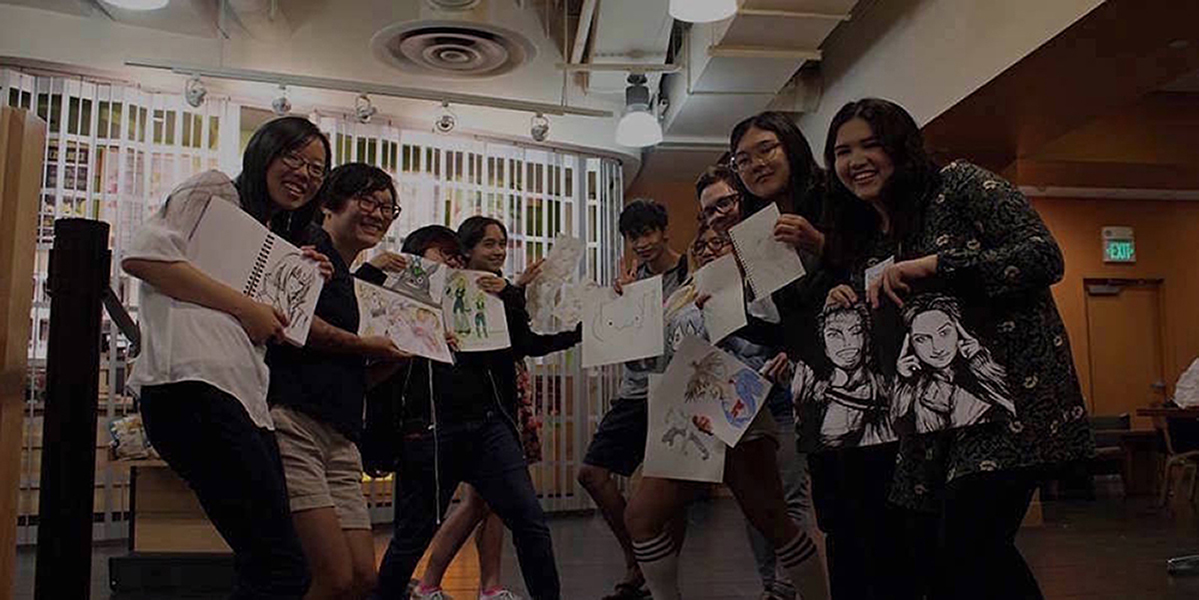
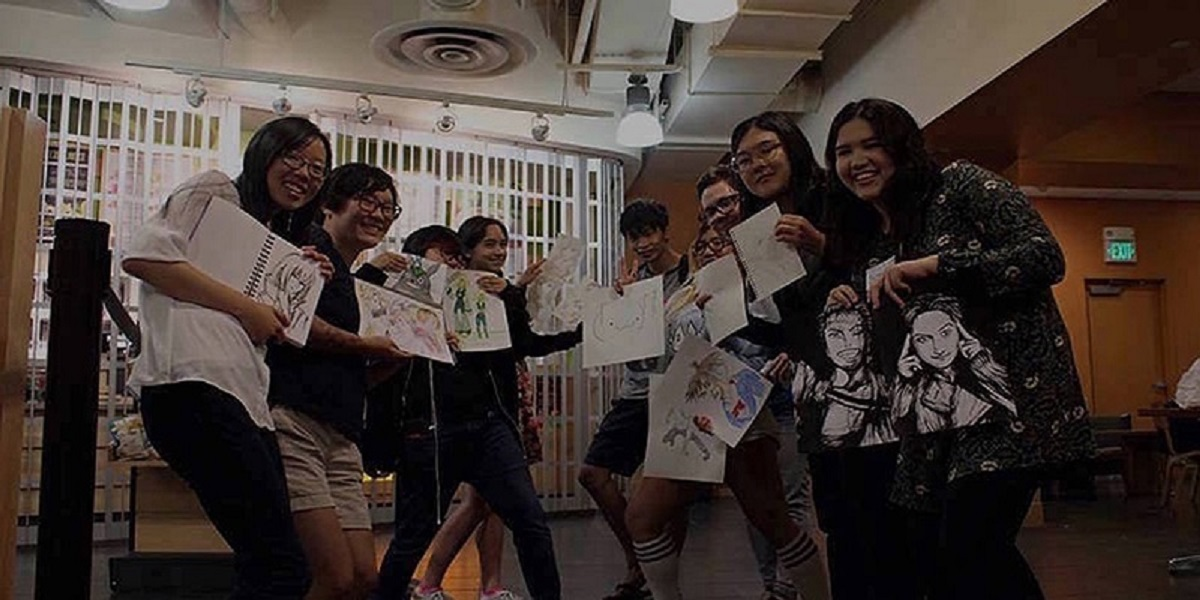
adjusted carousel and updated about page

diff --git a/about.html b/about.html
@@ -95,46 +95,48 @@
 			<h3>Our Officers</h3>
       <div class="row">
   			<div class="text-center">
-  				<div class="col-md-4 wow fadeInDown" data-wow-duration="1000ms" data-wow-delay="300ms">
+  				<div class="col-md-3 wow fadeInDown" data-wow-duration="1000ms" data-wow-delay="300ms">
   					<img src="images/officers/jae_officer_pic.jpg" alt="" >
   					<h4>Jae | President</h4>
   					<p>Jae is a third year English major. She doesn't know how to read. When she's not drawing, she's thinking about drawing.</p>
   				</div>
-  				<div class="col-md-4 wow fadeInDown" data-wow-duration="1000ms" data-wow-delay="600ms">
+  				<div class="col-md-3 wow fadeInDown" data-wow-duration="1000ms" data-wow-delay="600ms">
   					<img src="images/officers/miya_officer_pic.jpg" alt="" >
   					<h4>Miya | President</h4>
-  					<p>Miya is a third year Neuroscience Major and a committee member for both FP and JAC. If she could, she would spend every waking moment drawing something, but sadly it’s difficult to earn a degree that way. Her favorite thing to draw is anime style comics, but she also enjoys using graphite pencils to draw people and animals. Her two favorite mediums then are graphite and colored pencils. Her favorite anime is Fullmetal Alchemist Brotherhood, and favorite manga is Magi: The Labyrinth of Magic.</p>
-  				</div>
-  				<div class="col-md-4 wow fadeInDown" data-wow-duration="1000ms" data-wow-delay="900ms">
+  					<p>Miya is a fourth year Neuroscience Major and a committee member for both FP and JAC. If she could, she would spend every waking moment drawing something, but sadly it’s difficult to earn a degree that way. Her favorite thing to draw is anime style comics, but she also enjoys using graphite pencils to draw people and animals. Her two favorite mediums then are graphite and colored pencils. Her favorite anime is Fullmetal Alchemist Brotherhood, and favorite manga is Magi: The Labyrinth of Magic.</p> <
+  				</div> 
+  				<!--<div class="col-md-4 wow fadeInDown" data-wow-duration="1000ms" data-wow-delay="900ms"> 
   					<img src="images/officers/william_officer_pic.jpg" alt="" >
   					<h4>William | Secretary</h4>
   					<p>William is a third year psychology major. When he isn’t grinding out readings and homework, he loves to bake, play video games, and cosplay. He still doesn’t really know what to do with his life. His favorite anime’s are 7 Deadly Sins, My Hero Academia, and Re:zero.</p>
-  				</div>
-        </div>
-      </div>
-      <div class="row">
-        <div class="text-center">
-          <div class="col-md-4 wow fadeInDown" data-wow-duration="1000ms" data-wow-delay="300ms">
+  				</div>-->
+          <div class="col-md-3 wow fadeInDown" data-wow-duration="1000ms" data-wow-delay="900ms">
             <img src="images/officers/sylvia_officer_pic.jpg" alt="" >
             <h4>Sylvia | Treasurer</h4>
-            <p>Sylvia is a third year Psychology major. She usually binge draws, because otherwise she wouldn't be able to finish the drawing at all. She used to be very into Lolita fashion (not anymore cause she's broke)</p>
+            <p>Sylvia is a fourth year Psychology major. She usually binge draws, because otherwise she wouldn't be able to finish the drawing at all. She used to be very into Lolita fashion (not anymore cause she's broke)</p>
           </div>
-  				<div class="col-md-4 wow fadeInDown" data-wow-duration="1000ms" data-wow-delay="600ms">
+  				<div class="col-md-3 wow fadeInDown" data-wow-duration="1000ms" data-wow-delay="1200ms">
   					<img src="images/officers/jessie_officer_pic.jpg" alt="" >
   					<h4>Jessie | Webmaster</h4>
-  					<p>Jessie is a third year Economics major. She loves anime, korean dramas, manga, webtoons, and more! She is perpetually sleepy and wishes she could draw more.</p>
-  				</div><!--
-  				<div class="col-md-3 wow fadeInDown" data-wow-duration="1000ms" data-wow-delay="600ms">
-  					<img src="images/officers/miya_officer_pic.jpg" alt="" >
-  					<h4>Miya | Committee</h4>
-  					<p> Miya is a second year Neuroscience Major and a committee member for both FP and JAC. If she could, she would spend every waking moment drawing something, but sadly it’s difficult to earn a degree that way. Her favorite thing to draw is anime style comics, but she also enjoys using graphite pencils to draw people and animals. Her two favorite mediums then are graphite and colored pencils. Her favorite anime is Fullmetal Alchemist Brotherhood, and favorite manga is Magi: The Labyrinth of Magic.</p>
+  					<p>Jessie is a fourth year Economics major. She loves anime, korean dramas, manga, webtoons, and more! She is perpetually sleepy and wishes she could draw more.</p>
   				</div>
-          <div class="col-md-3 wow fadeInDown" data-wow-duration="1000ms" data-wow-delay="900ms">
-  					<img src="images/officers/alex_tsai_officer_pic.jpg" alt="" >
-  					<h4>Alex | Committee</h4>
-  					<p>This is Alex the second year not Alex the fourth year. He is amazing at ranting about anime character deaths.</p>
-  				</div> -->
-  				<div class="col-md-4 wow fadeInDown" data-wow-duration="1000ms" data-wow-delay="900ms">
+        <div class="row">
+  				<div class="col-md-3 wow fadeInDown" data-wow-duration="1000ms" data-wow-delay="1500ms">
+  					<img src="images/officers/serena_office_pic.jpg" alt="" >
+  					<h4>Serena | Publicity</h4>
+  					<p> Serena is a fourth year nursing major. She likes to watch anime, listen to kpop (exo and 2pm are my favorite), and listen to audiobooks. And she also wants to get better at drawing.</p>
+  				</div> 
+          <div class="col-md-3 wow fadeInDown" data-wow-duration="1000ms" data-wow-delay="1800ms">
+  					<img src="images/officers/jenny_officer_pic.jpg" alt="" >
+  					<h4>Jenny | Secretary</h4>
+  					<p>- She is a fourth year Computer Science major that doesn't know how to code. She likes to draw but has have commitment issues and can’t finish anything. She's a big weeb, please don’t bully her.</p>
+  				</div> 
+          <div class="col-md-3 wow fadeInDown" data-wow-duration="1000ms" data-wow-delay="2100ms">
+            <img src="images/officers/vincent_officer_pic.jpg" alt="" >
+            <h4>Vincent | Committee</h4>
+            <p>- Vincent is a second year chemical engineering major. Half of the time, he's drowning in depression because of his classes; the other half of the time, he's playing video games, watching anime, writing, or just doodling on his past midterms.</p>
+          </div> 
+  				<div class="col-md-3 wow fadeInDown" data-wow-duration="1000ms" data-wow-delay="2400ms">
   					<img src="images/officers/fudge_pic.jpg" alt="" >
   					<h4>Fudge | Mascot</h4>
   					<p>Sweet baby Fudgie Bar loves everyone and everything \O/ Makes occasional appearances at meetings and offers free hugs!</p>

diff --git a/index.html b/index.html
@@ -158,7 +158,7 @@
 							</div>
 						</div>
 						<div class="item">
-							<img src="images/FALL 2018 WEEK 1.png" alt="fruits" class= "img-responsive center-block"/>
+							<img src="images/fp-blackboard-week1-carousel.jpg" alt="fruits" class= "img-responsive center-block"/>
 						</div> <!-- takes out 3rd image
 						<div class="item">
 							<img src="images/fp-2018-week-8-edit.png" alt="fruits" class="center"/>
